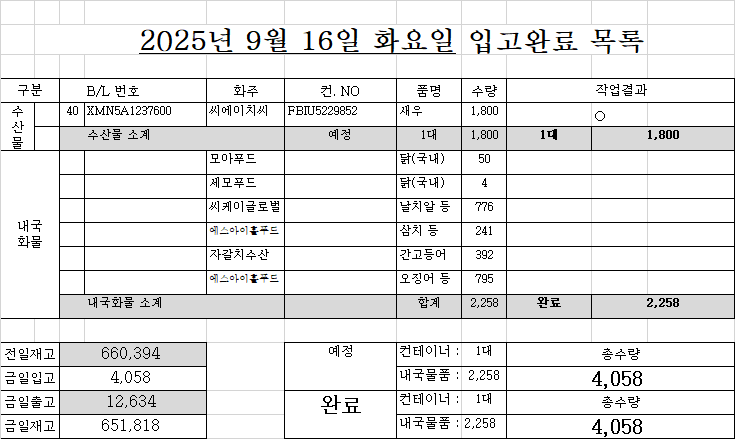
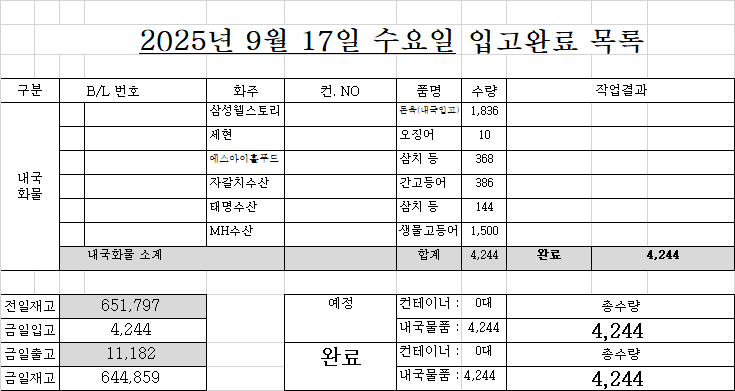
SDF

Changed region(s): [[0.0, 0.0614, 1.0, 1.0], [0.0299, 0.4297, 0.0599, 0.5831]]

diff --git a/list.html b/list.html
@@ -130,38 +130,40 @@
 </div>
 <!-- ★★★★★★ 따로 빼 놔야한다. 복붙하면 첫칸 비어도 되는데, 여기서는 첫칸비우면 당겨진다. -->
 <!-- ★ 엑셀범위를 브라우저 textarea에 붙여넣으면 첫셀 비어도 제대로 되는데... HTML에 붙여놓은 자료는 처음셀이 비어있으면 당겨짐 -->
-<div class="d-none" id="원본text_리스트1부터w요약열까지">작성	면허	B/LNO.	화주	컨테이너NO.	품명	수량	반입NO.	입항일	구분	도착일	도착시간	구분	운.도VBA	09/16 화 16:56	화찰BL	화찰 선명	화물관리번호	화찰수량	화찰중량	화찰입항	리스트시트기준열	
-1		HASLS21250801445	우원홀딩스	HALU8502650	파인애플	1,543 	허치슨감만	9/16	1				허치슨감만			SAWASDEE CAPELLA					09/16 화 16:56	
-1	○	HASLS21250802757	우원홀딩스	SEGU9997000	새우	1,370 	SS북항.BPT신선대	9/17	1			20 	SS북항.BPT신선대		HASLS21250802757	SAWASDEE ALTAIR	25SNKO3454I-2040-	1,370 	8,768.00 	2025.09.17	조회정보	
-2	○	MEDUFX665070	현대코퍼	MEDU9028594	닭다리살	1,980 	천일정기화물.BCT	9/15	2				천일정기화물.BCT		MEDUFX665070	MSC FOLEGANDROS VI	25MSCU6224I-0006-	1,980 	24,948.00 	2025.09.15	적재	57 
-2	○	SAO500572503	대성무역	FBIU5241380	닭장각	1,568 	챔프(EZ북항).BPT신선대	9/17	2				챔프(EZ북항).BPT신선대		SAO500572503	STARSHIP MERCURY	25NSSLI039I-0018-	1,568 	24,304.00 	2025.09.15	4617	3줄
-2		SAO500572500	수월한	CAAU4069051	닭다리살	1,960 	ACE.BPT신선대	9/17	2				ACE.BPT신선대			STARSHIP MERCURY					6,156 	4줄
-		ONEYSAOF37484615	대성무역	IKSU2522613	닭다리살	1,960 	DGT	9/18	2				DGT			REN JIAN 20(SX2)					7,695 	5줄
-		SMLMBKK5A4629100	마이푸드	FBIU5230299	닭다리살	1,925 	BPT신선대	9/18	2				BPT신선대			STARSHIP URSA					9,234 	6줄
-		HDMUSAOA56220202	수월한	HMMU5522348	닭다리살	1,960 	DGT	9/18	2				DGT			REN JIAN 20(SX2)						
-		MAEUSSZ790399	대상 주식회사	MNBU0354353	닭다리살	1,980 	PNC	9/20	2				PNC			HT CAPRICORN					출고/입고 4주간	
-		MAEUJBS277649	대성무역	MNBU4213585	닭다리살	1,958 	PNC	9/20	2				PNC			MAERSK ESMERALDAS					1일 7/5	5일줄
-		MAEUJBS277037	수월한	MNBU3139863	닭다리살	1,958 	PNC	9/20	2				PNC			MAERSK ESMERALDAS					12,379 	40.2
-		MAEUJBS277775	수월한	MNBU4133535	닭다리살	1,958 	PNC	9/20	2				PNC			MAERSK ESMERALDAS					11,211 	36.4
-		ONEYSAOF39071704	수월한	ONEU9266446	닭다리살	1,960 	DGT	9/20	2				DGT			NYK DAEDALUS(SX2)					내국제외	
-		MAEUJBS277799	오케이푸드	MNBU3003497	닭다리살	1,958 	PNC	9/20	2				PNC			MAERSK ESMERALDAS					구분	대수
-		MAEUJBS277809	오케이푸드	MMAU1133050	닭다리살	1,958 	PNC	9/20	2				PNC			MAERSK ESMERALDAS					수산	3
-		MAEUJBS277779	이마트	MNBU0222589	닭다리살	1,958 	PNC	9/20	2				PNC			MAERSK ESMERALDAS					축산	29
-		MAEUSSZ789940	현대코퍼	MNBU0679050	닭다리살	1,980 	PNC	9/20	2				PNC			HT CAPRICORN					합계	32
-		MAEUSSZ789941	현대코퍼	MNBU3453940	닭다리살	1,980 	PNC	9/20	2				PNC			HT CAPRICORN						
-		ONEYSAOF41171800	현대코퍼	FSCU5833610	닭다리살	1,980 	DGT	9/20	2				DGT			NYK DAEDALUS(SX2)					화주별 요약	
-		MEDUFJ693631	씨케이글로벌	TEMU9338210	주꾸미 등	2,044 	PNIT	9/22	1				PNIT			MSC STACEY					화주	대수
-		COSU6421817710	대상 주식회사	DFOU6154086	닭다리살	1,916 	BNCT	9/23	2				BNCT			COSCO FAITH					수월한	8
-		MAEUJBS282051	대성무역	TTNU8988256	닭다리살	1,958 	BNCT	9/23	2				BNCT			COSCO FAITH					현대코퍼	4
-		COSU6424573985	수월한	FBIU5615541	닭다리살	1,960 	BNCT	9/23	2				BNCT			COSCO FAITH					대성무역	4
-		COSU6453392880	수월한	SZLU9420964	닭다리살	1,960 	BNCT	9/23	2				BNCT			COSCO FAITH					오케이푸드	4
-		MAEUJBS278897	오케이푸드	MNBU3887660	닭다리살	1,939 	PNC	9/23	2				PNC			MAERSK ALTAIR					이마트	4
-		MEDUHI377621	오케이푸드	TEMU9379502	닭다리살	1,958 	PNC	9/23	2				PNC			MSC LEO VI					대상 주식회사	3
-		MEDUHI370485	이마트	TTNU8732942	닭다리살	1,953 	PNIT	9/23	2				PNIT			MSC GINA					우원홀딩스	2
-		MEDUHI388511	이마트	TTNU8721167	닭다리살	1,958 	PNIT	9/23	2				PNIT			MSC GINA					마이푸드	1
-		MAEUJBS278703	수월한	SUDU8046007	닭다리살	1,860 	PNC	9/25	2				PNC			AMBITION					씨케이글로벌	1
-		MAEUJBS279938	이마트	SUDU8207307	닭다리살	1,946 	PNC	9/25	2				PNC			AMBITION					아스트로스	1
-		ONEYSAOF39358810	아스트로스	TLLU1122062	닭근위	1,568 	DGT	9/27	2				DGT			DELPHINUS C(SX2)					합계	32
+<div class="d-none" id="원본text_리스트1부터w요약열까지">작성	면허	B/LNO.	화주	컨테이너NO.	품명	수량	반입NO.	입항일	구분	도착일	도착시간	구분	운.도VBA	09/17 수 16:31	화찰BL	화찰 선명	화물관리번호	화찰수량	화찰중량	화찰입항	리스트시트기준열	
+1	○	HASLS21250802757	우원홀딩스	SEGU9997000	새우	1,370 	SS북항.BPT신선대	9/17	1			20 	SS북항.BPT신선대		HASLS21250802757	SAWASDEE ALTAIR	25SNKO3454I-2040-	1,370 	8,768.00 	2025.09.17	09/17 수 16:31	
+1	○	MEDUFX665070	현대코퍼	MEDU9028594	닭다리살	1,980 	천일정기화물.BCT	9/15	2	9/17	11:52		천일정기화물.BCT		MEDUFX665070	MSC FOLEGANDROS VI	25MSCU6224I-0006-	1,980 	24,948.00 	2025.09.15	조회정보	
+1	○	SAO500572503	대성무역	FBIU5241380	닭장각	1,568 	챔프(EZ북항).BPT신선대	9/17	2				챔프(EZ북항).BPT신선대		SAO500572503	STARSHIP MERCURY	25NSSLI039I-0018-	1,568 	24,304.00 	2025.09.15	적재	57 
+1		SAO500572500	수월한	CAAU4069051	닭다리살	1,960 	ACE.BPT신선대	9/17	2				ACE.BPT신선대			STARSHIP MERCURY					4617	3줄
+1		HDMUSAOA29990800	수월한	HMMU5406440	닭장각	1,568 			2												6,156 	4줄
+		HASLS21250801445	우원홀딩스	HALU8502650	파인애플	1,543 	허치슨감만	9/16	1				허치슨감만			SAWASDEE CAPELLA					7,695 	5줄
+		ONEYSAOF37484615	대성무역	IKSU2522613	닭다리살	1,960 	DGT	9/18	2				DGT			REN JIAN 20(SX2)					9,234 	6줄
+		SMLMBKK5A4629100	마이푸드	FBIU5230299	닭다리살	1,925 	BPT신선대	9/18	2				BPT신선대			STARSHIP URSA						
+		HDMUSAOA56220202	수월한	HMMU5522348	닭다리살	1,960 	DGT	9/18	2				DGT			REN JIAN 20(SX2)					출고/입고 4주간	
+		MAEUSSZ790399	대상 주식회사	MNBU0354353	닭다리살	1,980 	PNC	9/20	2				PNC			HT CAPRICORN					1일 7/5	5일줄
+		MAEUJBS277649	대성무역	MNBU4213585	닭다리살	1,958 	PNC	9/20	2				PNC			MAERSK ESMERALDAS					12,079 	39.2
+		MAEUJBS277037	수월한	MNBU3139863	닭다리살	1,958 	PNC	9/20	2				PNC			MAERSK ESMERALDAS					9,858 	32
+		MAEUJBS277775	수월한	MNBU4133535	닭다리살	1,958 	PNC	9/20	2				PNC			MAERSK ESMERALDAS					내국제외	
+		ONEYSAOF39071704	수월한	ONEU9266446	닭다리살	1,960 	DGT	9/20	2				DGT			NYK DAEDALUS(SX2)					구분	대수
+		MAEUJBS277799	오케이푸드	MNBU3003497	닭다리살	1,958 	PNC	9/20	2				PNC			MAERSK ESMERALDAS					수산	3
+		MAEUJBS277809	오케이푸드	MMAU1133050	닭다리살	1,958 	PNC	9/20	2				PNC			MAERSK ESMERALDAS					축산	31
+		MAEUJBS277779	이마트	MNBU0222589	닭다리살	1,958 	PNC	9/20	2				PNC			MAERSK ESMERALDAS					합계	34
+		MAEUSSZ789940	현대코퍼	MNBU0679050	닭다리살	1,980 	PNC	9/20	2				PNC			HT CAPRICORN						
+		MAEUSSZ789941	현대코퍼	MNBU3453940	닭다리살	1,980 	PNC	9/20	2				PNC			HT CAPRICORN					화주별 요약	
+		ONEYSAOF41171800	현대코퍼	FSCU5833610	닭다리살	1,980 	DGT	9/20	2				DGT			NYK DAEDALUS(SX2)					화주	대수
+		MEDUFJ693631	씨케이글로벌	TEMU9338210	주꾸미 등	2,044 	PNIT	9/22	1				PNIT			MSC STACEY					수월한	9
+		COSU6421817710	대상 주식회사	DFOU6154086	닭다리살	1,916 	BNCT	9/23	2				BNCT			COSCO FAITH					현대코퍼	4
+		MAEUJBS282051	대성무역	TTNU8988256	닭다리살	1,958 	BNCT	9/23	2				BNCT			COSCO FAITH					대성무역	4
+		MAEUJBS277790	동원홈푸드	MNBU3716097	닭다리살	1,958 		9/23	2												오케이푸드	4
+		COSU6424573985	수월한	FBIU5615541	닭다리살	1,960 	BNCT	9/23	2				BNCT			COSCO FAITH					이마트	4
+		COSU6453392880	수월한	SZLU9420964	닭다리살	1,960 	BNCT	9/23	2				BNCT			COSCO FAITH					대상 주식회사	3
+		MAEUJBS278897	오케이푸드	MNBU3887660	닭다리살	1,939 	PNC	9/23	2				PNC			MAERSK ALTAIR					우원홀딩스	2
+		MEDUHI377621	오케이푸드	TEMU9379502	닭다리살	1,958 	PNC	9/23	2				PNC			MSC LEO VI					마이푸드	1
+		MEDUHI370485	이마트	TTNU8732942	닭다리살	1,953 	PNIT	9/23	2				PNIT			MSC GINA					씨케이글로벌	1
+		MEDUHI388511	이마트	TTNU8721167	닭다리살	1,958 	PNIT	9/23	2				PNIT			MSC GINA					동원홈푸드	1
+		MAEUJBS278703	수월한	SUDU8046007	닭다리살	1,860 	PNC	9/25	2				PNC			AMBITION					아스트로스	1
+		MAEUJBS279938	이마트	SUDU8207307	닭다리살	1,946 	PNC	9/25	2				PNC			AMBITION					합계	34
+		ONEYSAOF39358810	아스트로스	TLLU1122062	닭근위	1,568 	DGT	9/27	2				DGT			DELPHINUS C(SX2)						
 		ONEYSAOF40192300	대상 주식회사	KKFU6728239	닭다리살	1,980 		미정	2							MSC SHUBA B 						
 </div>
 <div class="d-none" id="원본text_입항관리도크부터도착항우측까지">도크	화주	컨테이너	작업순서	상세내용 참조		운송사	물품		06/05 목 16:15	B/L	도착항	상세내용

diff --git a/excel_코드점검.html b/excel_코드점검.html
@@ -271,8 +271,14 @@
       <span class="개별카테고리세로1"></span><span class="개별카테고리세로2"></span>
       <div>
         <h6 class="fw-bold" style="color:blueviolet">--- js 정리 *표시는 div와 연결x---</h6>
-        <h6 class="fw-bold">1) *JavaScript는 완전한 객체 지향 언어입니다. 흔히 객체 지향 개념은 다음과 같은 요소를 갖고 있습니다.</h6>
-        <h6 class="fw-bold 띄움20">*•클래스, •객체, •메소드, •속성, •캡슐화, •집합, •재사용, •상속, •변형</h6>
+        <h6 class="fw-bold" title="js참고자료링크">JavaScript는 완전한 객체 지향 언어입니다. <span style="color:blueviolet">모든 참고자료 링크</span> </h6>
+        <h6 class="fw-bold 띄움20">*주요개념 : •객체, {속성:값, ... }, 값은 value와 메소드, value에는 모든값 가능</h6>
+        <h6 class="fw-bold 띄움20">*주요개념 : •프로토타입 기반 언어, 프로토타입의 상속 == 정의된 속성[기능]을 사용</h6>
+        <h6 class="fw-bold" style="color:blueviolet" title="js설명_객체의표현">2) 객체, 객체의 표현방식, 객체의 속성중 하나인 prototype, 상속, 변수, 자료형</h6>
+
+
+
+        <br><br><br><br><br>
         <h6 class="fw-bold" style="color:blueviolet" title="js설명_객체변수자료형">2) 객체, 객체의 표현방식, 객체의 속성중 하나인 prototype, 상속, 변수, 자료형</h6>
         <h6 class="fw-bold">3) *JavaScript는 흔히 프로토타입 기반 언어라 하는데 모든 기능이 여기 정의되어 있음.</h6>
         <h6 class="fw-bold" style="color:blueviolet" title="js설명_객체의종류">4) 정의되어 있는 객체[종류], 사용자가 정의한 객체, prototype은 객체의 기능정보.</h6>
@@ -2545,6 +2551,35 @@
       <li>F. project에 사용된 이벤트리스너</li>
       <br><br><br><br>
     </section>
+    <div id="js참고자료링크" class="대체3줄">
+      <h6 class="대체3줄세로1h6"></h6>
+      <h6 class="대체3줄세로2h6"></h6>
+      <div>
+        <h6 class="fw-bold"><a href="https://velog.io/@pds0309/Javascript-Prototype-기본-이해하기" target="_blank">JavaScript는 흔히 프로토타입 기반 언어(prototype-based language)라 불립니다.</a> </h6>
+        <h6 class="fw-bold"><a href="https://wikidocs.net/251884" target="_blank"> 프로토타입의 기본 개념과 사용법</a> </h6>
+        <h6 class="fw-bold"><a href="https://stir.tistory.com/314" target="_blank">[JavaScript] 프로토타입 쓰는 이유, 목적 그리고 사용법</a> </h6>
+        <h6 class="fw-bold"><a href="https://developer.mozilla.org/ko/docs/Learn_web_development/Extensions/Advanced_JavaScript_objects/Object_prototypes" target="_blank">프로토타입 기반 언어?</a> </h6>
+        <h6 class="fw-bold"><a href="https://velog.io/@thumb_hyeok/프로토타입의-장점은-무엇일까" target="_blank">프로토타입의 장점은 무엇일까?</a> </h6>
+        <h6 class="fw-bold"><a href="https://ko.javascript.info/constructor-new" target="_blank">new 연산자와 생성자 함수</a> </h6>
+        <h6 class="fw-bold"><a href="https://inpa.tistory.com/entry/JS-%F0%9F%93%9A-Prototype-%EC%99%84%EC%A0%84-%EC%A0%95%EB%B3%B5-%E2%9D%97" target="_blank">[JS] 프로토타입(Prototype) 개념 완전 정복</a> </h6>
+        <h6 class="fw-bold"><a href="https://victorydntmd.tistory.com/51" target="_blank">생성자 함수</a> </h6>
+        <h6 class="fw-bold"><a href="https://creativevista.tistory.com/entry/자바스크립트자바스크립트-객체-완벽-가이드-선언-사용법-복사" target="_blank">객체 생성</a> </h6>
+        <h6 class="fw-bold"><a href="https://any-ting.tistory.com/130" target="_blank">객체생성 2</a> </h6>
+        <h6 class="fw-bold"><a href="https://velog.io/@bungbuung/%EA%B0%9D%EC%B2%B4-%EC%83%9D%EC%84%B1%EC%9D%98-%EB%A7%88%EB%B2%95-%EC%9E%90%EB%B0%94%EC%8A%A4%ED%81%AC%EB%A6%BD%ED%8A%B8-Class-%EC%A0%95%EB%A6%AC" target="_blank">객체 생성의 마법: 자바스크립트 Class 정리</a> </h6>
+        
+      </div>
+      <div>
+
+      </div>
+      <div>
+
+      </div>
+    </div>
+    <div id="js설명_객체의표현" class="대체2줄">
+      <h6 class="대체2줄세로1h6"></h6>
+      <div></div>
+      <div></div>
+    </div>
     <div id="js설명_객체변수자료형" class="대체2줄">
       <h6 class="대체2줄세로1h6"></h6>
       <div>
@@ -2784,18 +2819,7 @@
       </div>
       <div>
         <h6 class="fw-bold">1) 객체의 종류별로 prototype 속성이 있고, 그 안에 미리 정의해 놓은 속성과 값(메소드)가 있다. </h6>
-        <h6 class="fw-bold"><a href="https://velog.io/@pds0309/Javascript-Prototype-기본-이해하기" target="_blank">JavaScript는 흔히 프로토타입 기반 언어(prototype-based language)라 불립니다.</a> </h6>
-        <h6 class="fw-bold"><a href="https://wikidocs.net/251884" target="_blank"> 프로토타입의 기본 개념과 사용법</a> </h6>
-        <h6 class="fw-bold"><a href="https://stir.tistory.com/314" target="_blank">[JavaScript] 프로토타입 쓰는 이유, 목적 그리고 사용법</a> </h6>
-        <h6 class="fw-bold"><a href="https://developer.mozilla.org/ko/docs/Learn_web_development/Extensions/Advanced_JavaScript_objects/Object_prototypes" target="_blank">프로토타입 기반 언어?</a> </h6>
-        <h6 class="fw-bold"><a href="https://velog.io/@thumb_hyeok/프로토타입의-장점은-무엇일까" target="_blank">프로토타입의 장점은 무엇일까?</a> </h6>
-        <h6 class="fw-bold"><a href="https://ko.javascript.info/constructor-new" target="_blank">new 연산자와 생성자 함수</a> </h6>
-        <h6 class="fw-bold"><a href="https://inpa.tistory.com/entry/JS-%F0%9F%93%9A-Prototype-%EC%99%84%EC%A0%84-%EC%A0%95%EB%B3%B5-%E2%9D%97" target="_blank">[JS] 프로토타입(Prototype) 개념 완전 정복</a> </h6>
-        <h6 class="fw-bold"><a href="https://victorydntmd.tistory.com/51" target="_blank">생성자 함수</a> </h6>
-        <h6 class="fw-bold"><a href="https://creativevista.tistory.com/entry/자바스크립트자바스크립트-객체-완벽-가이드-선언-사용법-복사" target="_blank">객체 생성</a> </h6>
-        <h6 class="fw-bold"><a href="https://any-ting.tistory.com/130" target="_blank">객체생성 2</a> </h6>
-        <h6 class="fw-bold"><a href="https://velog.io/@bungbuung/%EA%B0%9D%EC%B2%B4-%EC%83%9D%EC%84%B1%EC%9D%98-%EB%A7%88%EB%B2%95-%EC%9E%90%EB%B0%94%EC%8A%A4%ED%81%AC%EB%A6%BD%ED%8A%B8-Class-%EC%A0%95%EB%A6%AC" target="_blank">객체 생성의 마법: 자바스크립트 Class 정리</a> </h6>
-        
+
         <img src="portal/images/문서연결_PROJECT/prototype체인.png" alt="이미지없음">
       </div>
     </div>

diff --git a/portal/assets/css/excel_코드점검.css b/portal/assets/css/excel_코드점검.css
@@ -12,6 +12,9 @@ code {color:black;display:block;}
 .개별카테고리세로2 {display:inline-block;position: absolute; border-right:1px solid rgb(201, 188, 188);height:1350px;left:1227px;}
 .대체2줄 > div {display:inline-block;width:945px;vertical-align: top;}
 .대체2줄세로1h6 {position: absolute; border-right:1px solid rgb(201, 188, 188);height:900px;left:954px;}
+.대체3줄 > div {display:inline-block; width:610px;vertical-align: top;}
+.대체3줄세로1h6 {display:inline-block; position: absolute; border-right:1px solid rgb(201, 188, 188);height:1350px;left:613px;}
+.대체3줄세로2h6 {display:inline-block;position: absolute; border-right:1px solid rgb(201, 188, 188);height:1350px;left:1227px;}
 #id나열 > div > span, #title나열 > div > span, #js파일리스트기록 > div > span {border:1px solid black;display: inline-block;}
 #id나열 > div > span:nth-of-type(1), #title나열 > div > span:nth-of-type(1) {padding:0px 4px; text-align: center;}/* width는 js로*/
 #js파일리스트기록 > div > span:nth-of-type(1) {padding:0px 4px;width:170px;vertical-align: top;}

diff --git a/portal/assets/js/excel_코드점검.js b/portal/assets/js/excel_코드점검.js
@@ -29,6 +29,20 @@ function 전체대체에셑팅() {
 
 
 function 연습() {
+  function Person(name, age) {
+  this.name = name;
+  this.age = age;
+}
+
+const p = new Person('Alice', 30);
+console.log(p)
+
+
+
+
+
+
+  return;
   var 클래스=class c {};
   console.log(Object.prototype.toString.call(클래스)); // [object Function]
   console.log(클래스.__proto__);                       // ƒ () { [native code] } 
